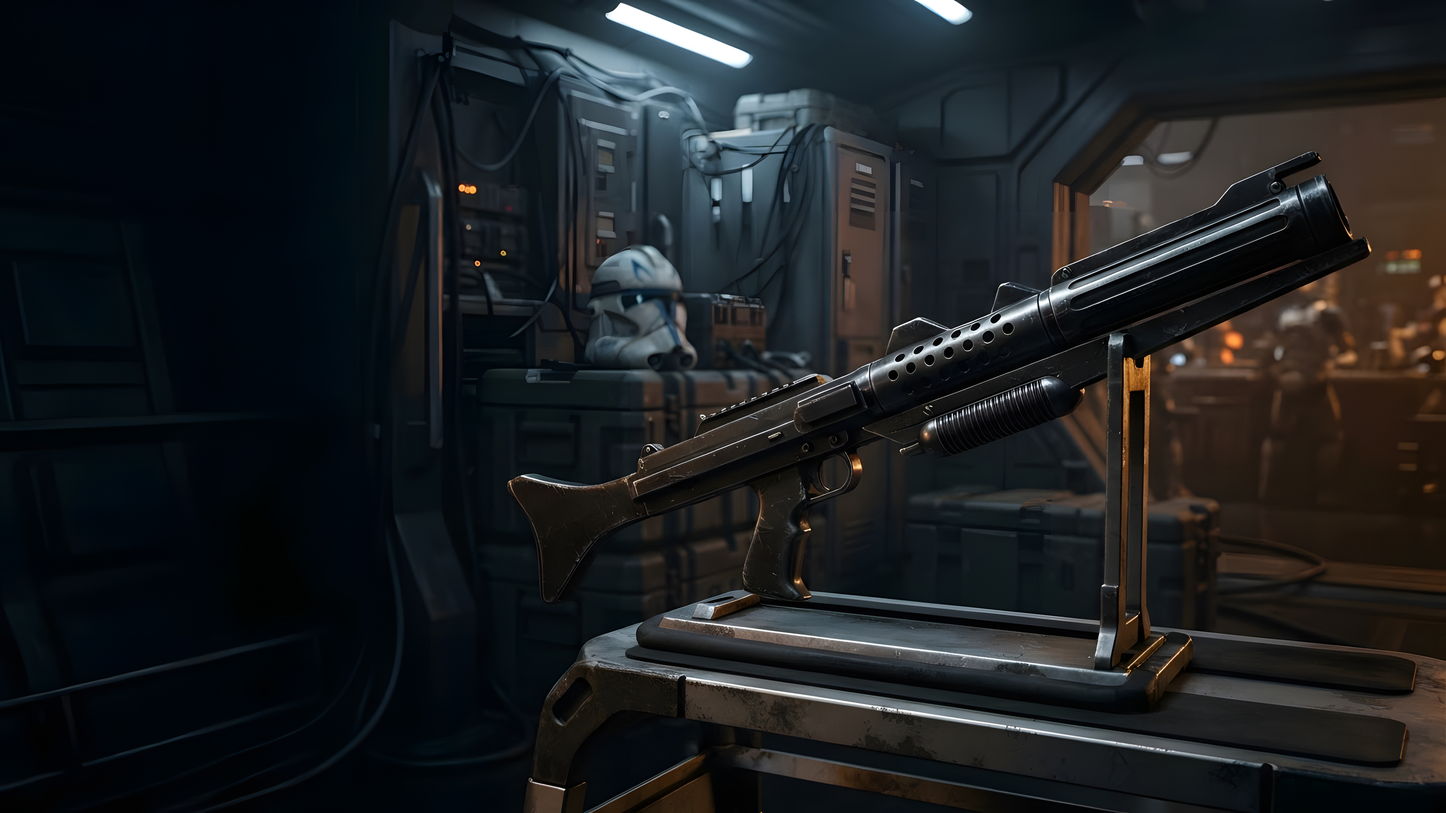
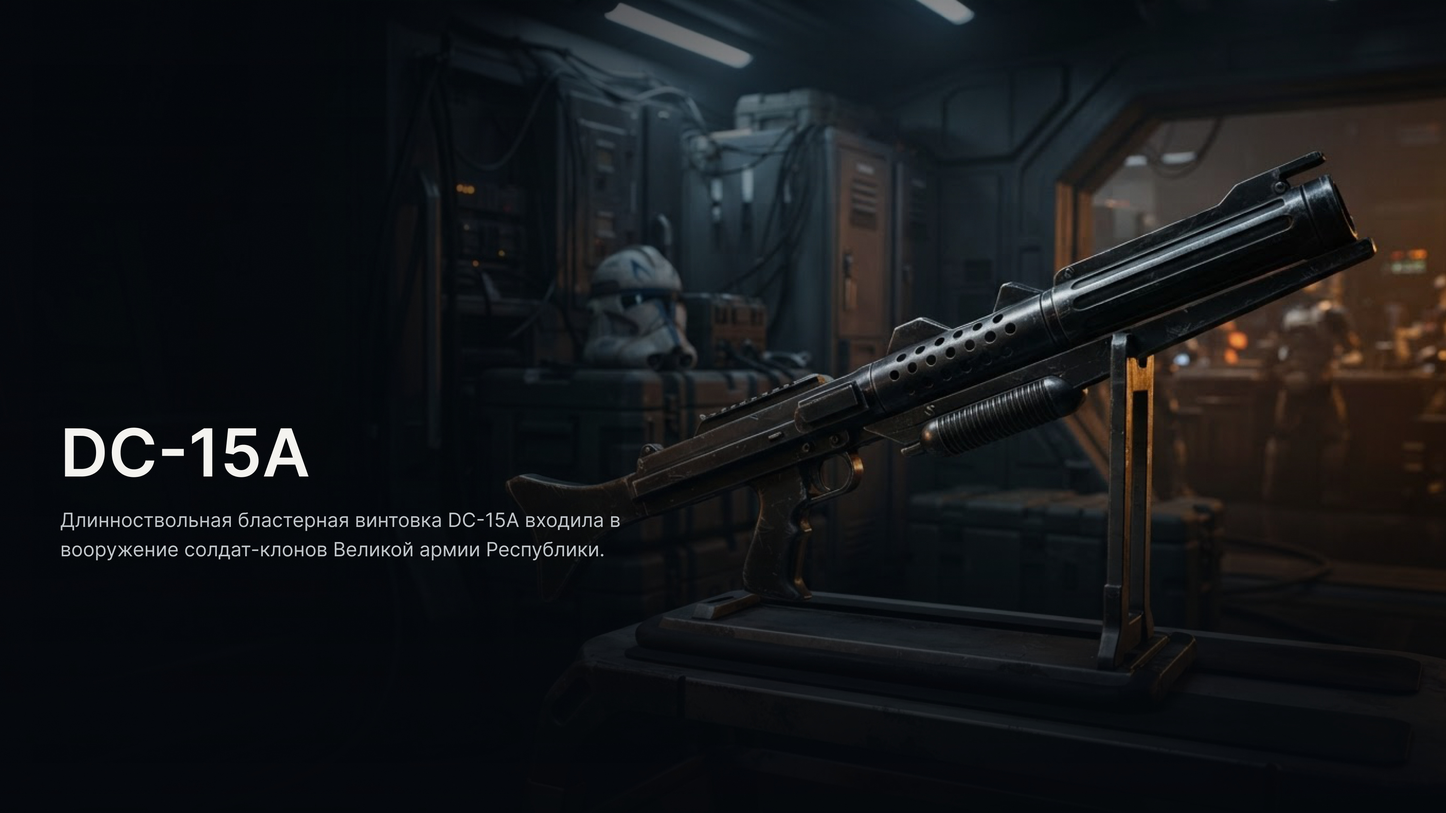
Restore Figma 1677:109 lore text on 4K slides.
Loading progress plate stays off; preload remains scene-only.

diff --git a/index.html b/index.html
@@ -26,16 +26,16 @@
 </style>
 </head>
 <body>
-	<!-- Чистые баннеры Figma 1677:109 · без текста / градиентов / progress -->
-	<div class="slide" data-src="img/1.jpg?v=1677hq3"><div class="scene"></div></div>
-	<div class="slide" data-src="img/2.jpg?v=1677hq3"><div class="scene"></div></div>
-	<div class="slide" data-src="img/3.jpg?v=1677hq3"><div class="scene"></div></div>
-	<div class="slide" data-src="img/4.jpg?v=1677hq3"><div class="scene"></div></div>
-	<div class="slide" data-src="img/5.jpg?v=1677hq3"><div class="scene"></div></div>
-	<div class="slide" data-src="img/6.jpg?v=1677hq3"><div class="scene"></div></div>
-	<div class="slide" data-src="img/7.jpg?v=1677hq3"><div class="scene"></div></div>
-	<div class="slide" data-src="img/8.jpg?v=1677hq3"><div class="scene"></div></div>
-	<div class="slide" data-src="img/9.jpg?v=1677hq3"><div class="scene"></div></div>
+	<!-- Figma 1677:109 1:1 · lore title+body · без плашки загрузки/progress -->
+	<div class="slide" data-src="img/1.jpg?v=1677hq4"><div class="scene"></div></div>
+	<div class="slide" data-src="img/2.jpg?v=1677hq4"><div class="scene"></div></div>
+	<div class="slide" data-src="img/3.jpg?v=1677hq4"><div class="scene"></div></div>
+	<div class="slide" data-src="img/4.jpg?v=1677hq4"><div class="scene"></div></div>
+	<div class="slide" data-src="img/5.jpg?v=1677hq4"><div class="scene"></div></div>
+	<div class="slide" data-src="img/6.jpg?v=1677hq4"><div class="scene"></div></div>
+	<div class="slide" data-src="img/7.jpg?v=1677hq4"><div class="scene"></div></div>
+	<div class="slide" data-src="img/8.jpg?v=1677hq4"><div class="scene"></div></div>
+	<div class="slide" data-src="img/9.jpg?v=1677hq4"><div class="scene"></div></div>
 
 <script>
 	/* GMod loadingurl: setInterval часто спит — крутим из колбэков движка. */
